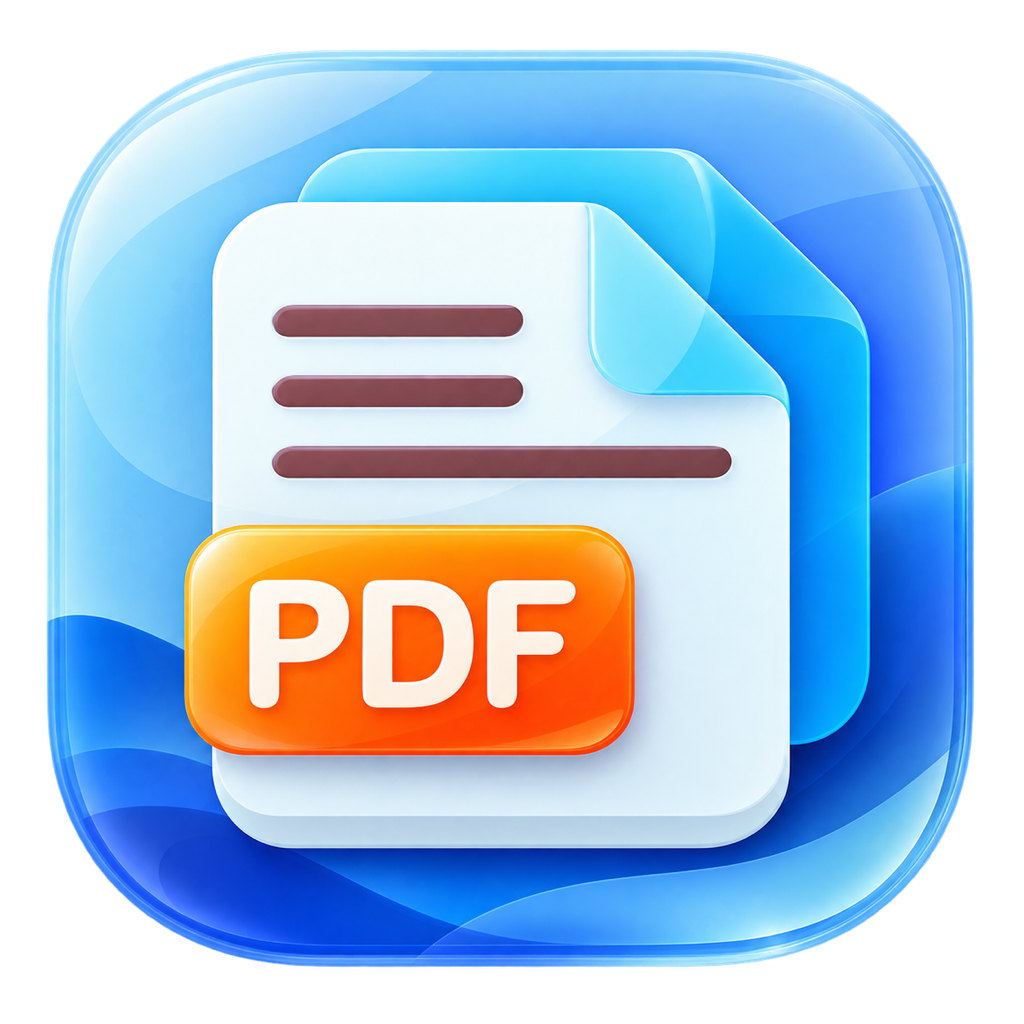
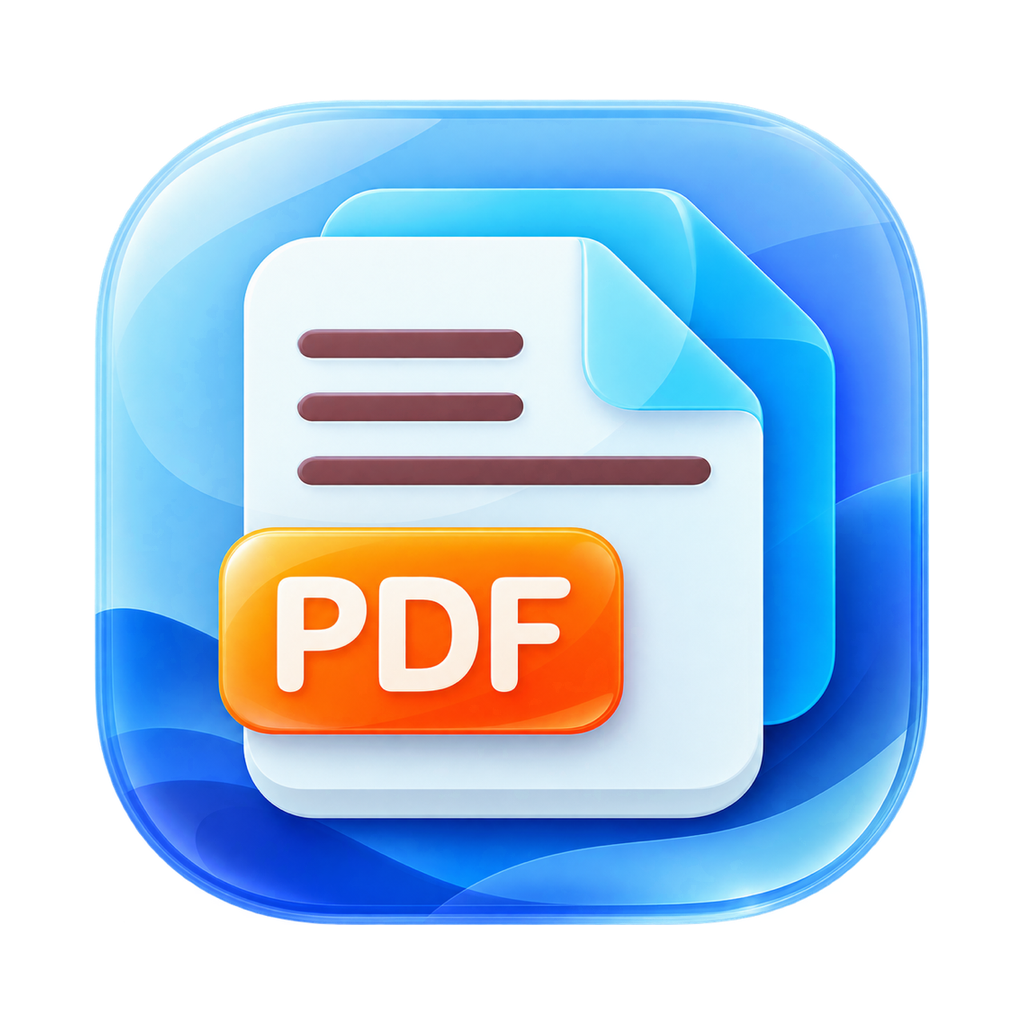
fix: 缩略图点击跳页、滚轮驱动与 Dock 图标校准（v0.3.3）
- 缩略图行改用 Sense::click()：UiBuilder 默认 sense 为 hover（空感知），
  导致 resp.clicked() 恒为 false，点选缩略图从未真正触发 goto()
- 跳页响应补渲染唤醒：新增 keep_repainting_while_rendering()，有在途渲染
  时安排下一帧，点选后目标页出图即绘制，不再等下一次鼠标移动
- 缩略图栏滚轮驱动主视图：本栏禁用 mouse_wheel（ScrollSource::SCROLL_BAR），
  悬停时把滚轮增量换算到主文档坐标经 doc_scroll_force 一次性强制
- 渲染队列加优先级：RenderRequest 增 priority，每轮排空通道后稳定排序，
  目标页优先出图，不被沿途预取积压拖慢
- tab 增强健壮性：has_pending() 供重绘驱动判断，pending_since + 10s 超时回收
  防止渲染线程异常时该页永久空白
- 图标校准至 macOS 标准网格：assets/icon-1024.png 内容等比缩放至 835 宽
  （Tahoe 实测网格 835x836、边距 94/95），修正 Dock 中偏大约 11% 的问题
- 版本号 0.3.2 -> 0.3.3（Cargo.toml + packaging/Info.plist 两处键）

diff --git a/src/app.rs b/src/app.rs
@@ -14,6 +14,7 @@ use eframe::egui::{
     ScrollArea, Vec2,
 };
 use eframe::egui::load::SizedTexture;
+use eframe::egui::containers::scroll_area::ScrollSource;
 // CoreText：枚举系统字体供「设置」选择；ab_glyph 校验所选字体可渲染
 use objc2_core_foundation::{CFString, CFURL, CFURLPathStyle};
 use objc2_core_text::{
@@ -296,6 +297,9 @@ pub struct SmartPdfApp {
     doc_scroll_y: f32,
     /// 连续模式主文档内容总高度（像素），供缩略图栏换算跟随比例 k = 缩略图总高 / 此值。
     doc_total_height: f32,
+    /// 一次性强制主文档区滚动到指定偏移（由悬停缩略图栏滚轮触发）；下一帧由 doc_panel
+    /// 消费并清空。与 scroll_target 跳页同通道，避免每帧覆盖用户在主区的自由滚动。
+    doc_scroll_force: Option<f32>,
     /// 「设置」窗口是否打开。
     show_settings: bool,
     /// 用户选择的界面字体文件路径（None = 系统默认）。
@@ -331,6 +335,7 @@ impl SmartPdfApp {
             thumb_fit_width: 0.0,
             doc_scroll_y: 0.0,
             doc_total_height: 0.0,
+            doc_scroll_force: None,
             show_settings: false,
             ui_font: saved_font,
             settings_pending: None,
@@ -361,6 +366,7 @@ impl SmartPdfApp {
                 // 新文档从顶部开始：清空主区滚动位置，缩略图栏随之归零。
                 self.doc_scroll_y = 0.0;
                 self.doc_total_height = 0.0;
+                self.doc_scroll_force = None;
                 self.status = format!("已打开「{}」", title);
             }
             Err(e) => self.status = format!("无法打开 {}：{}", path.display(), e),
@@ -561,6 +567,17 @@ impl SmartPdfApp {
         }
     }
 
+    /// 渲染线程仍有请求在途时，安排下一帧重绘。
+    ///
+    /// 必须在本帧面板渲染之后调用：本帧新发出的请求（例如点选缩略图后跳页的目标页）
+    /// 也要纳入判断。否则点击后 eframe 立刻回到空闲，渲染线程虽然出了图，却没有下一帧
+    /// 把它画出来——只能等下一次输入事件（鼠标移动）才刷新，表现为跳转「不立即」。
+    fn keep_repainting_while_rendering(&self, ctx: &egui::Context) {
+        if self.tabs.iter().any(|tab| tab.has_pending()) {
+            ctx.request_repaint_after(std::time::Duration::from_millis(16));
+        }
+    }
+
 
     // ---- 左侧缩略图面板 ----
 
@@ -598,7 +615,25 @@ impl SmartPdfApp {
         // 因此不存在反馈环路，主文档区始终可自由滚动到任意页。点击缩略图跳页走 scroll_target（主区一次性跳页）。
         let want = self.doc_scroll_y * k;
 
-        let scroll = ScrollArea::vertical().id_salt("thumbs").vertical_scroll_offset(want);
+        // 滚轮驱动主文档：指针悬停缩略图栏时滚轮不应被本栏吞掉，而是换算为主文档滚动。
+        // egui 滚轮语义：delta 正 = 内容向上滚（offset 减小），负 = 向下。按 k 的倒数换算到
+        // 主文档坐标系。本栏自身禁用 mouse_wheel（SCROLL_BAR），避免同一份 delta 被两个
+        // ScrollArea 消费。主文档上限由 ScrollArea 内部自行夹取，这里只需保证非负。
+        // 写入 doc_scroll_y 后，doc_panel 本帧回灌的是 viewport.min.y（旧值），会覆盖——
+        // 因此用 doc_scroll_force 一次性强制主区到新位置（与跳页同通道），下帧回灌接续。
+        let wheel_y = ui.ctx().input(|i| i.smooth_scroll_delta().y);
+        if wheel_y != 0.0 && ui.rect_contains_pointer(ui.max_rect()) && k > 0.0 {
+            let new_doc = (self.doc_scroll_y - wheel_y / k).max(0.0);
+            if (new_doc - self.doc_scroll_y).abs() > f32::EPSILON {
+                self.doc_scroll_y = new_doc;
+                self.doc_scroll_force = Some(new_doc);
+            }
+        }
+
+        let scroll = ScrollArea::vertical()
+            .id_salt("thumbs")
+            .scroll_source(ScrollSource::SCROLL_BAR)
+            .vertical_scroll_offset(want);
         scroll.show_viewport(ui, |ui, viewport| {
             ui.set_height(total_height);
             let content_top = ui.max_rect().top();
@@ -608,8 +643,8 @@ impl SmartPdfApp {
                 // 自适应缩放：渲染缩放使页面宽度铺满 zoom_base（egui 点），含 ppp 修正
                 let zoom =
                     (zoom_base * ppp / (w_pt * scale_px_per_pt(1.0))).clamp(0.05, 8.0);
-                // 只对可见缩略图发起渲染请求
-                self.tabs[i].request_render(p, zoom, max_texture_side);
+                // 只对可见缩略图发起渲染请求（低优先级：缩略图不与正文抢渲染队列）
+                self.tabs[i].request_render(p, zoom, max_texture_side, false);
                 // 按真实累计高度布置，避免不同尺寸页面导致虚拟滚动偏移。
                 let row_w = ui.available_width().max(20.0);
                 let row_rect = egui::Rect::from_min_size(
@@ -621,6 +656,10 @@ impl SmartPdfApp {
                         egui::UiBuilder::new()
                             .id_salt(("thumb", p))
                             .max_rect(row_rect)
+                            // 必须显式声明 click 感知：`UiBuilder` 默认 sense 是
+                            // `Sense::hover()`（即空感知），此时 scope_builder 返回的
+                            // `.response.clicked()` 恒为 false——点击永远不会被注册。
+                            .sense(egui::Sense::click())
                             .layout(Layout::centered_and_justified(egui::Direction::LeftToRight)),
                         |ui| {
                             if let Some(tid) = self.tabs[i].display_texture_at(p, zoom) {
@@ -631,9 +670,16 @@ impl SmartPdfApp {
                         },
                     )
                     .response;
+                if resp.hovered() {
+                    ui.ctx().set_cursor_icon(egui::CursorIcon::PointingHand);
+                }
                 if resp.clicked() {
+                    // 点选缩略图：goto 直接改写当前页，scroll_target 让 doc_panel 在本帧
+                    // 一次性把主区强制到该页偏移（不等任何动画/惯性），再补一次重绘，
+                    // 保证跳转与目标页出图都不必等下一次输入事件。
                     self.tabs[i].goto(p);
                     self.scroll_target = Some(p);
+                    ui.ctx().request_repaint();
                 }
             }
         });
@@ -680,7 +726,11 @@ impl SmartPdfApp {
         match self.view_mode {
             ViewMode::Single => {
                 let page = self.tabs[i].page;
-                self.tabs[i].request_render(page, zoom, max_texture_side);
+                // 单页模式没有连续滚动的偏移量，跳页由 goto() 直接生效；清掉可能残留的
+                // scroll_target，避免之后切回连续模式时凭空跳到旧目标页。
+                self.scroll_target = None;
+                // 单页模式当前页即视线中心，优先渲染。
+                self.tabs[i].request_render(page, zoom, max_texture_side, true);
                 ui.centered_and_justified(|ui| {
                     if let Some(tid) = self.tabs[i].display_texture_for(page) {
                         let (w_pt, h_pt) = self.tabs[i].doc.page_size_pt(page);
@@ -705,13 +755,19 @@ impl SmartPdfApp {
                         scroll = scroll.vertical_scroll_offset(self.doc_scroll_y);
                     }
                 }
+                // 悬停缩略图栏滚轮：一次性强制主区到换算后的新位置，消费即清空。
+                if let Some(f) = self.doc_scroll_force.take() {
+                    self.doc_scroll_y = f;
+                    scroll = scroll.vertical_scroll_offset(f);
+                }
 
                 scroll.show_viewport(ui, |ui, viewport| {
                     ui.set_height(total_height);
                     let content_top = ui.max_rect().top();
                     // 回灌：用户拖动主滚动条时，把主区实际偏移写回共享位置，驱动缩略图栏跟随。
                     self.doc_scroll_y = viewport.min.y;
-                    if let Some(current) = page_at_offset(&offsets, viewport.center().y) {
+                    let center_page = page_at_offset(&offsets, viewport.center().y);
+                    if let Some(current) = center_page {
                         self.tabs[i].page = current;
                     }
 
@@ -719,8 +775,10 @@ impl SmartPdfApp {
                         let (w_pt, h_pt) = self.tabs[i].doc.page_size_pt(p);
                         let w = w_pt * px_per_pt / ppp;
                         let h = h_pt * px_per_pt / ppp;
-                        // 请求渲染（未缓存/未在途才发送）
-                        self.tabs[i].request_render(p, zoom, max_texture_side);
+                        // 请求渲染（未缓存/未在途才发送）：视线中心页优先，
+                        // 其余可见页（含上下预取）普通优先级，保证跳页目标最快出图。
+                        let is_center = center_page == Some(p);
+                        self.tabs[i].request_render(p, zoom, max_texture_side, is_center);
                         let row_rect = egui::Rect::from_min_size(
                             egui::pos2(ui.max_rect().left(), content_top + offsets[p]),
                             Vec2::new(avail_w, h),
@@ -926,7 +984,9 @@ impl SmartPdfApp {
         let lo = page.saturating_sub(1);
         let hi = (page + 1).min(page_count.saturating_sub(1));
         for np in lo..=hi {
-            self.tabs[i].request_render(np, pres_zoom, max_texture_side);
+            // 演示模式当前页优先，相邻页普通优先级。
+            let is_current = np == page;
+            self.tabs[i].request_render(np, pres_zoom, max_texture_side, is_current);
         }
 
         // 黑底
@@ -1006,6 +1066,7 @@ impl eframe::App for SmartPdfApp {
         if self.presenting {
             // 演示模式：全屏单页（类 PPT）
             egui::CentralPanel::default().show(ui, |ui| self.presentation_panel(ui));
+            self.keep_repainting_while_rendering(&ctx);
             return;
         }
 
@@ -1053,6 +1114,7 @@ impl eframe::App for SmartPdfApp {
         if self.show_settings {
             self.settings_window(&ctx);
         }
+        self.keep_repainting_while_rendering(&ctx);
     }
 }
 

diff --git a/src/tab.rs b/src/tab.rs
@@ -20,6 +20,10 @@ struct RenderRequest {
     page: usize,
     zoom: f32,
     scale: f32,
+    /// 优先请求（用户视线中心页，如点击缩略图跳转的目标页）。渲染线程每轮
+    /// 会把通道里积压的请求一次取出并优先处理这一类，避免预取请求排在
+    /// 前面导致跳页后长时间停留在模糊占位图上。
+    priority: bool,
 }
 
 /// 渲染结果（渲染线程 → UI）。
@@ -54,30 +58,49 @@ struct CachedPage {
 
 /// 渲染线程主体：持有独立的 Document 实例（MuPDF 原生指针不可跨线程，
 /// 但可以在本线程内长期复用），循环处理请求。
+///
+/// 每轮先把通道里积压的请求一次排空取出，稳定排序让 `priority` 请求
+/// 插队优先渲染（同级保持 FIFO），保证「点击缩略图/翻页」后目标页
+/// 最快出图，不被更早进入通道的预取请求挡住。
 fn render_worker(path: PathBuf, rx: Receiver<RenderRequest>, tx: Sender<RenderResult>) {
     let mut doc: Option<Document> = None;
-    while let Ok(req) = rx.recv() {
-        let RenderRequest {
+    loop {
+        // 排空通道：取第一个请求（阻塞等待），再收集本轮已就绪的其余请求。
+        let mut batch: Vec<RenderRequest> = Vec::new();
+        match rx.recv() {
+            Ok(first) => batch.push(first),
+            Err(_) => break, // 发送端全部关闭，渲染线程退出
+        }
+        while let Ok(more) = rx.try_recv() {
+            batch.push(more);
+        }
+        // 稳定排序：优先请求在前，同级保持原到达顺序（FIFO）。
+        batch.sort_by_key(|req| !req.priority);
+
+        for RenderRequest {
             page,
             zoom,
             scale,
-        } = req;
-        if doc.is_none() {
-            match Document::open(&path) {
-                Ok(d) => doc = Some(d),
-                Err(error) => {
-                    let _ = tx.send(RenderResult {
-                        page,
-                        zoom,
-                        rendered: Err(error),
-                    });
-                    continue;
+            ..
+        } in batch
+        {
+            if doc.is_none() {
+                match Document::open(&path) {
+                    Ok(d) => doc = Some(d),
+                    Err(error) => {
+                        let _ = tx.send(RenderResult {
+                            page,
+                            zoom,
+                            rendered: Err(error),
+                        });
+                        continue;
+                    }
                 }
             }
-        }
-        if let Some(d) = doc.as_ref() {
-            let rendered = d.render_page(page, scale);
-            let _ = tx.send(RenderResult { page, zoom, rendered });
+            if let Some(d) = doc.as_ref() {
+                let rendered = d.render_page(page, scale);
+                let _ = tx.send(RenderResult { page, zoom, rendered });
+            }
         }
     }
 }
@@ -103,6 +126,9 @@ pub struct DocTab {
     res_rx: Receiver<RenderResult>,
     /// 在途请求集合（同一 key 不重复发送；正文与缩略图缩放不同，多个 key 并存）。
     pending: std::collections::HashSet<RenderKey>,
+    /// 在途请求的发出时刻。渲染线程异常退出等情况下结果可能永远不会到达，超时后回收
+    /// 该 key（否则该页永久空白，且 UI 会为一个永不到达的结果持续排帧重绘）。
+    pending_since: HashMap<RenderKey, Instant>,
     /// 最近失败的请求；短暂冷却后允许重试，避免永久空白和每帧重试。
     failed_at: HashMap<RenderKey, Instant>,
 }
@@ -111,6 +137,8 @@ impl DocTab {
     /// 缓存页数上限：缩略图与正文共存（不同缩放），太小会频繁淘汰导致反复渲染。
     const CACHE_LIMIT: usize = 64;
     const RETRY_DELAY: Duration = Duration::from_secs(1);
+    /// 在途请求超时：超过该时长仍未收到结果即视为丢失，解除占位以便重新发起。
+    const PENDING_TIMEOUT: Duration = Duration::from_secs(10);
 
     pub fn open(path: &Path) -> Result<Self, String> {
         let doc = Document::open(path)?;
@@ -137,6 +165,7 @@ impl DocTab {
             req_tx,
             res_rx,
             pending: std::collections::HashSet::new(),
+            pending_since: HashMap::new(),
             failed_at: HashMap::new(),
         })
     }
@@ -160,7 +189,10 @@ impl DocTab {
     // ---- 渲染请求 / 结果收集 ----
 
     /// 请求渲染指定页（未缓存且不在途时才发送）。
-    pub fn request_render(&mut self, page: usize, zoom: f32, max_texture_side: usize) {
+    ///
+    /// `priority = true` 表示该页是用户当前视线中心（跳转目标页/当前页），
+    /// 渲染线程会插队优先处理；预取页（视口上下各一页）用 `false`。
+    pub fn request_render(&mut self, page: usize, zoom: f32, max_texture_side: usize, priority: bool) {
         let key = Self::key(page, zoom);
         if self.caches.contains_key(&key) || self.pending.contains(&key) {
             return;
@@ -175,9 +207,15 @@ impl DocTab {
         self.failed_at.remove(&key);
         self.pending.insert(key);
         let scale = self.render_scale(page, zoom, max_texture_side);
-        if self.req_tx.send(RenderRequest { page, zoom, scale }).is_err() {
+        if self
+            .req_tx
+            .send(RenderRequest { page, zoom, scale, priority })
+            .is_err()
+        {
             self.pending.remove(&key);
             self.failed_at.insert(key, Instant::now());
+        } else {
+            self.pending_since.insert(key, Instant::now());
         }
     }
 
@@ -198,6 +236,7 @@ impl DocTab {
         while let Ok(res) = self.res_rx.try_recv() {
             let key = Self::key(res.page, res.zoom);
             self.pending.remove(&key);
+            self.pending_since.remove(&key);
             let rendered = match res.rendered {
                 Ok(rendered) => {
                     self.failed_at.remove(&key);
@@ -232,7 +271,32 @@ impl DocTab {
             self.caches.insert(key, CachedPage { handle });
             inserted = true;
         }
+        // 超时回收：长时间无结果的在途请求视为丢失，解除占位（下次会被重新请求）。
+        let expired: Vec<RenderKey> = self
+            .pending_since
+            .iter()
+            .filter(|(_, sent_at)| sent_at.elapsed() > Self::PENDING_TIMEOUT)
+            .map(|(key, _)| *key)
+            .collect();
+        for key in expired {
+            log::warn!(
+                "渲染结果超时未返回，重新排队: page={} zoom_permille={}",
+                key.0,
+                key.1
+            );
+            self.pending.remove(&key);
+            self.pending_since.remove(&key);
+            self.failed_at.insert(key, Instant::now());
+        }
         inserted
+    }
+
+    /// 是否仍有渲染请求在途。
+    ///
+    /// 供 UI 决定是否需要继续排帧：渲染线程出图后没有任何输入事件时，eframe 会回到
+    /// 空闲状态，新纹理不会被画出来（表现为「点了缩略图主区迟迟不刷新」）。
+    pub fn has_pending(&self) -> bool {
+        !self.pending.is_empty()
     }
 
     // ---- 获取显示纹理 ----
@@ -279,6 +343,7 @@ mod tests {
                 page: 0,
                 zoom: 1.0,
                 scale: 1.5,
+                priority: false,
             })
             .unwrap();
         drop(req_tx); // 让 worker 循环在完成后退出
@@ -307,6 +372,7 @@ mod tests {
                 page: usize::MAX,
                 zoom: 1.0,
                 scale: 1.5,
+                priority: false,
             })
             .unwrap();
         drop(req_tx);

diff --git a/RELEASE_NOTES.md b/RELEASE_NOTES.md
@@ -1,6 +1,9 @@
-# SmartPDF Pro 0.3.2
+# SmartPDF Pro 0.3.3
 
-## 新增
+## 修复
 
-1. 新增「窗口」菜单：支持 ⌘M 最小化窗口（缩至 Dock）、⌘⌥M 最小化并缩放、窗口缩放、全部置于前层。
-2. 应用菜单补齐标准隐藏组：⌘H 隐藏本应用、⌘⌥H 隐藏其他、全部显示，对齐 macOS 系统应用惯例。
+1. 修复点击左侧缩略图后主视图不跳页的问题：缩略图行此前只注册了悬停感知，点击事件从未被识别。
+2. 修复点击缩略图后主视图刷新不及时的问题：渲染结果就绪后立即重绘，不再等待下一次鼠标移动才刷新。
+3. 修复缩略图栏滚轮无响应：指针悬停缩略图栏时，滚轮改为驱动主视图翻页。
+4. 优化远距离跳页的出图顺序：目标页优先渲染，不再被沿途预取任务排队拖慢。
+5. 修正 Dock 与访达中图标偏大：图标内容等比缩放至 macOS 标准图标网格，与其他应用视觉尺寸一致。
